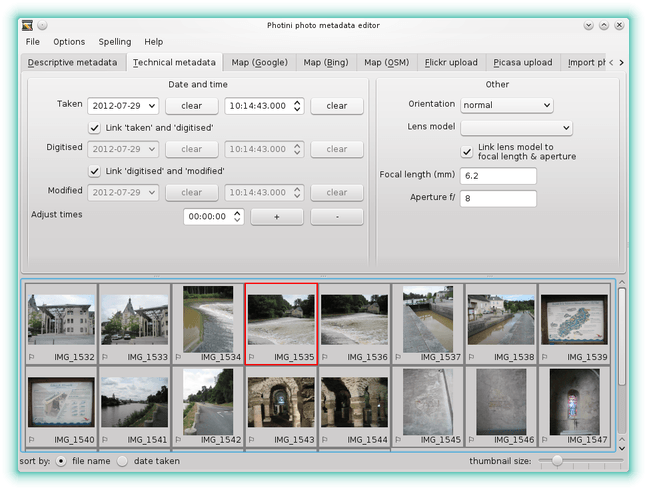
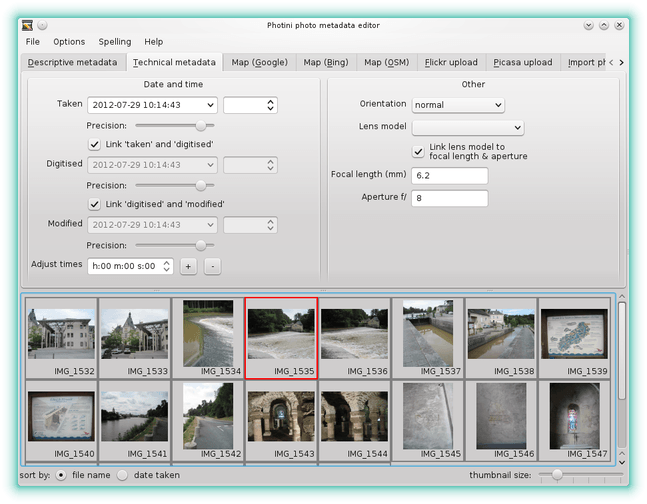
Update 'technical' tab documentation

diff --git a/src/photini/__init__.py b/src/photini/__init__.py
@@ -2,6 +2,6 @@
 
 from __future__ import unicode_literals
 
-__version__ = '15.11.0.dev457'
-_dev_no = '457'
-_commit = '785d9b7'
+__version__ = '15.11.0.dev458'
+_dev_no = '458'
+_commit = 'b4ca438'

diff --git a/src/doc/manual/technical_metadata.rst b/src/doc/manual/technical_metadata.rst
@@ -1,6 +1,6 @@
 .. This is part of the Photini documentation.
    Copyright (C)  2012-15  Jim Easterbrook.
-   See the file ../DOC_LICENSE.txt for copying condidions.
+   See the file ../DOC_LICENSE.txt for copying conditions.
 
 Technical metadata
 ==================
@@ -10,13 +10,33 @@ Generally you should not need to edit any of this data, as it should have been c
 
 .. image:: ../images/screenshot_12.png
 
-The date can be picked from a calendar widget that pops up when you click on the down arrow.
-The time can be adjusted by clicking on the hour, minute or second and then using the up or down arrows.
-You can also double click on any of the numbers to select it and type a new value in directly.
-The date and time fields can be cleared with their ``clear`` buttons.
+The GUI shows three date/time entries - ``taken``, ``digitised`` and ``modified``.
+These are often the same, and are linked by the ``link ...`` check boxes.
+These allow you to change all three when you change the ``taken`` date/time.
 
-The ``Link ...`` tick-boxes allow the different date & time values to be changed simultaneously.
-The ``Digitised`` and ``Modified`` date & time values can only be edited when their ``Link`` boxes are not ticked.
+You may wish to unlink the three entries and adjust the dates or times separately.
+For example, you could use the ``modified`` entry to note when you have edited the metadata with Photini.
+If you scan some old photographs you should set the ``taken`` entry to when the photographs were taken and the ``digitised`` entry to when you scanned them.
+
+The date can be picked from a calendar widget that pops up when you click on the down arrow in a date/time entry.
+Clicking on any of the numbers allows them to be adjusted with your keyboard up & down arrow keys.
+You can also double click on any of the numbers to select it and type a new value in directly.
+
+.. image:: ../images/screenshot_12c.png
+
+To the right of each date/time is a widget to adjust the time zone.
+The time a photograph was taken is assumed to be "local time".
+The time zone records how many hours & minutes offset from UTC (or GMT) the local time zone was when the photograph was taken, digitised or modified.
+
+.. image:: ../images/screenshot_12d.png
+
+Below each date/time is a slider that allows you to set the precision.
+At its maximum value the time is shown to a precision of 1 millisecond.
+Cameras that can take more than one photograph per second need this precision!
+Moving the slider to the left removes parts of the date & time.
+For example, you may know the date when an old photograph was taken but not the time.
+You might only know the year it was taken in.
+Setting the precision allows you to record this uncertainty.
 
 The ``Adjust times`` field allows a constant offset to be applied to the time stamps of several pictures at once.
 This can be useful if you forgot to set your camera's clock before a day's shooting!
